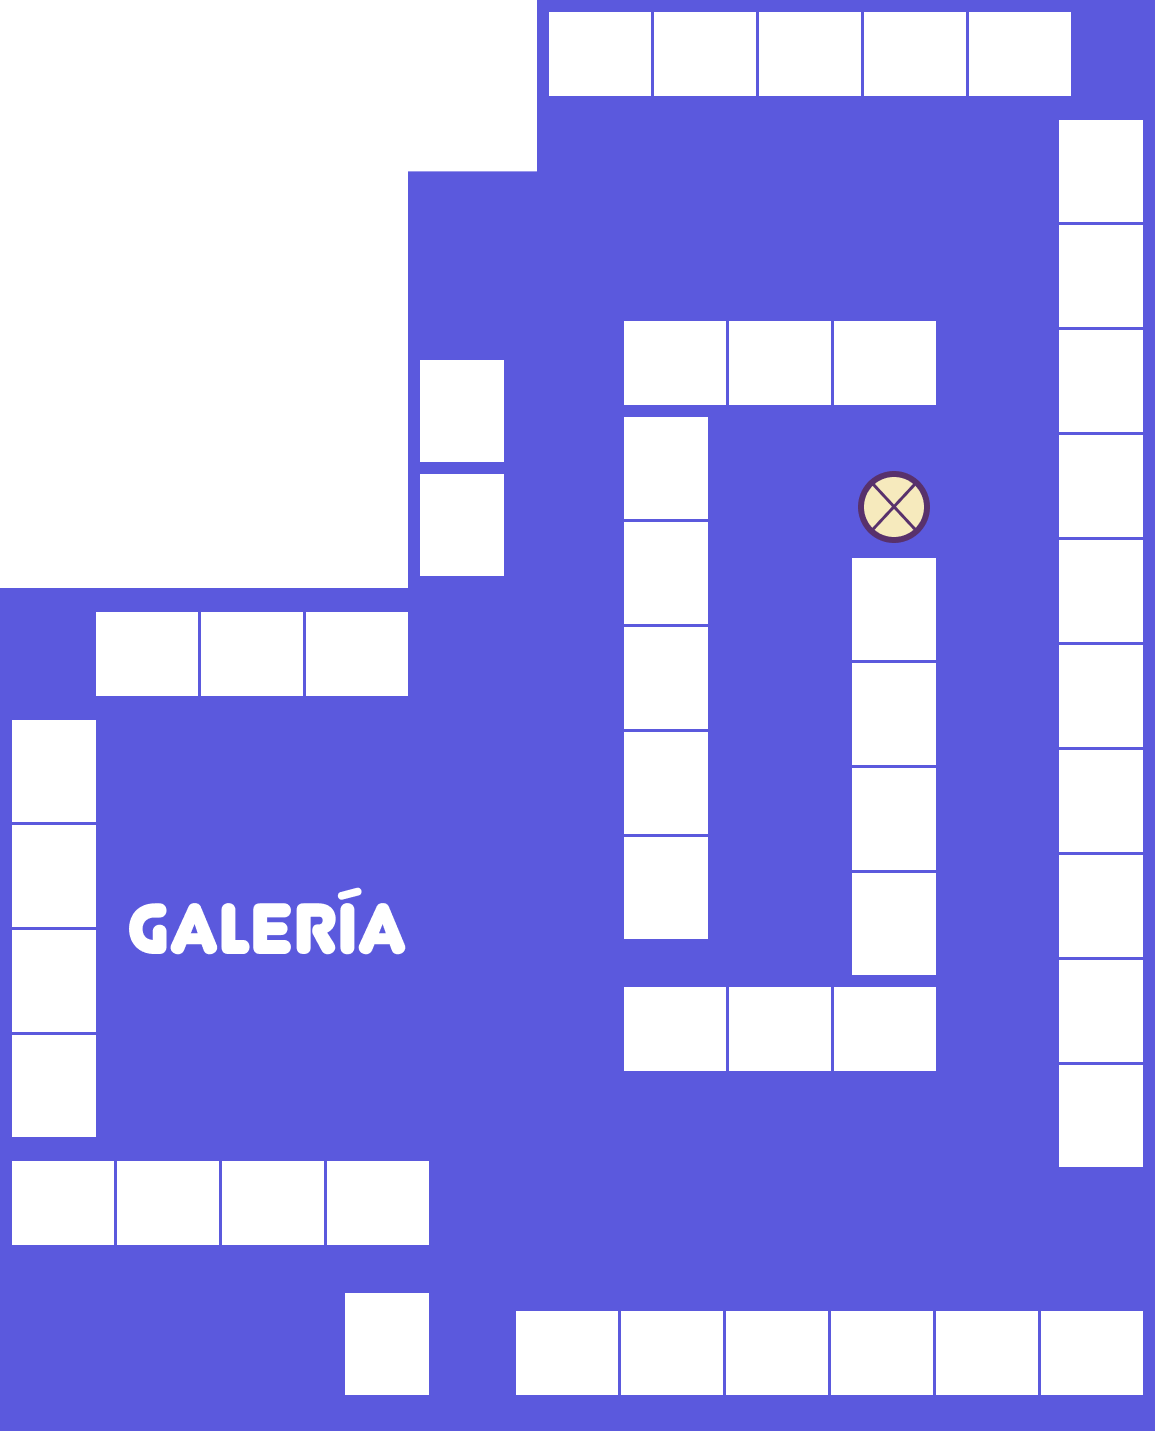
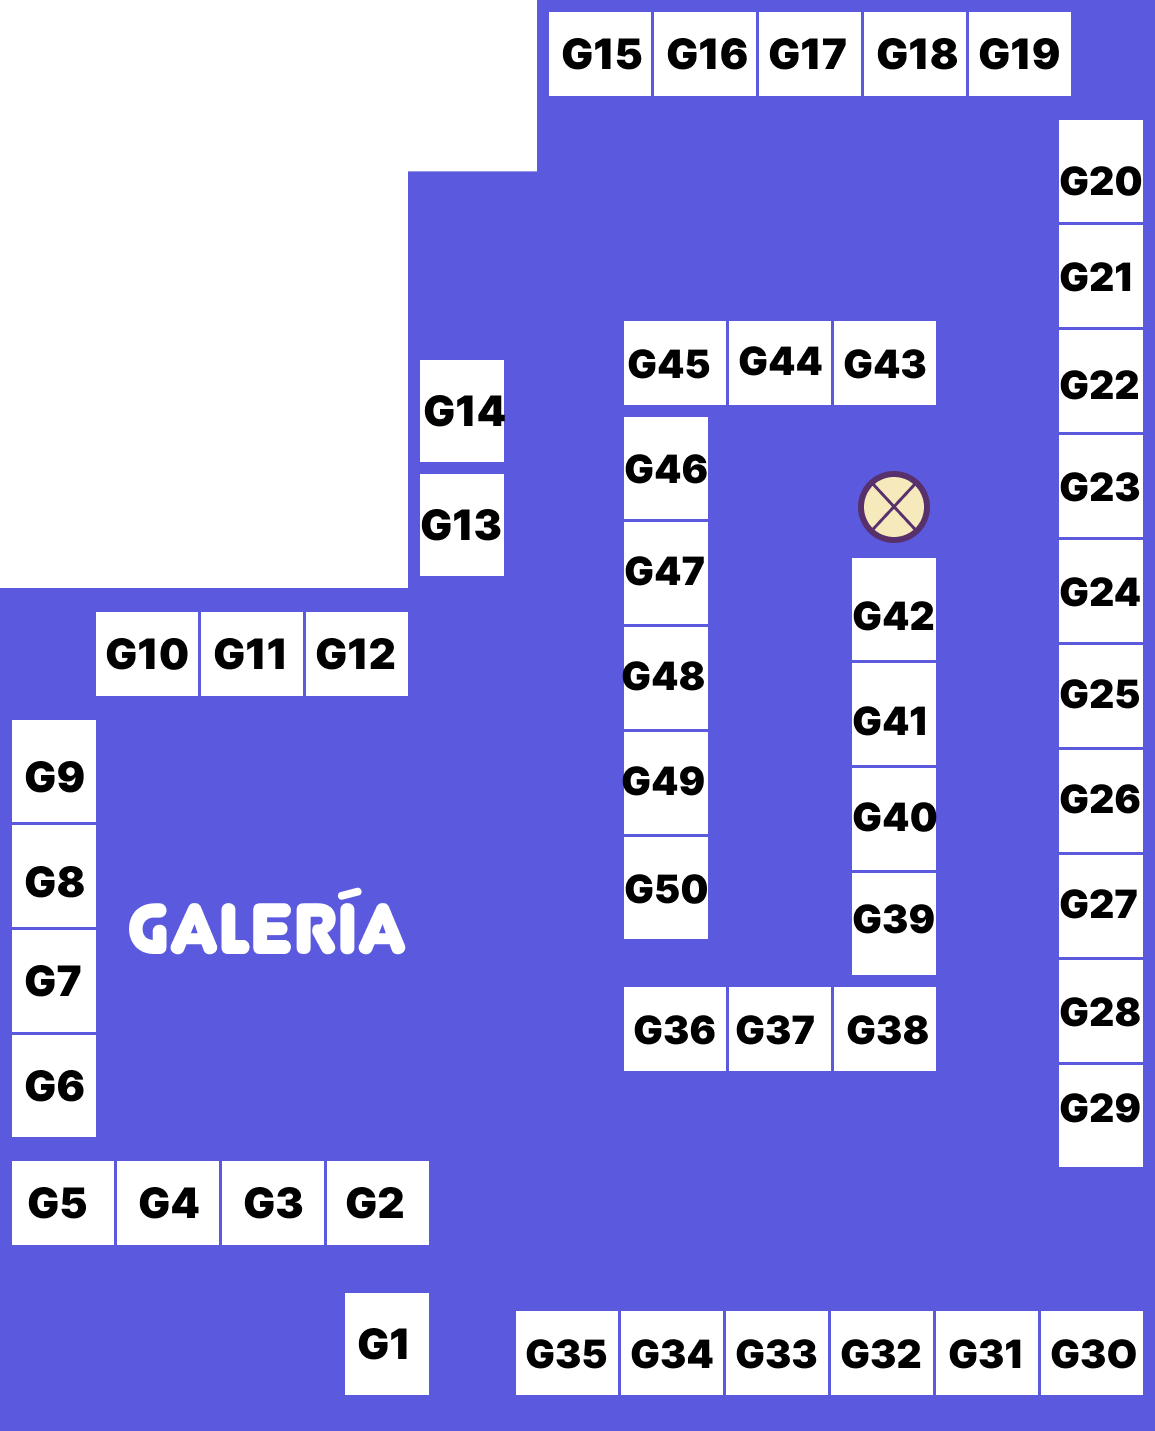
Fix stands based on db data

diff --git a/src/pages/NextFestival.tsx b/src/pages/NextFestival.tsx
@@ -1,17 +1,31 @@
-import { useState } from 'react';
+import { useEffect, useState } from 'react';
 import festivalMap from '../assets/cba_gallery.png';
 import Stand from '../components/Stand';
 import { cbaGalleryPositionsV1 } from '../components/utils/standPositions';
-import { StandPosition } from '../types/eventMapTypes';
-import { demoStands } from '../utils/demoStands';
+import { StandModel, StandPosition } from '../types/eventMapTypes';
+import { get } from '../api/helpers';
 
 const NextFestivalPage = () => {
   const [mapLoaded, setMapLoaded] = useState(false);
-  const stands = demoStands;
+  const [galleryStands, setGalleryStands] = useState<StandModel[]>([]);
+
+  useEffect(() => {
+    const fetchStands = async () => {
+      const stands = await get('stands');
+      if (stands?.length) {
+        const filteredStands = stands.filter(
+          (stand: StandModel) => stand.label === 'G',
+        );
+        setGalleryStands(filteredStands);
+      }
+    };
+
+    fetchStands();
+  }, []);
 
   return (
     <>
-      <div className="m-auto max-w-screen-md">
+      <div className="m-auto max-w-md">
         <div className="relative">
           <section className="flex justify-center w-100 m-auto">
             <img
@@ -21,20 +35,21 @@ const NextFestivalPage = () => {
               onLoad={() => setMapLoaded(true)}
             />
           </section>
-          {mapLoaded && stands.map((stand) => {
-            const position = cbaGalleryPositionsV1.find(
-              (position: StandPosition) => position.id === stand.standNumber,
-            );
+          {mapLoaded &&
+            galleryStands.map((stand) => {
+              const position = cbaGalleryPositionsV1.find(
+                (position: StandPosition) => position.id === stand.standNumber,
+              );
 
-            return (
-              <Stand
-                key={stand.standNumber}
-                {...stand}
-                left={position?.left}
-                top={position?.top}
-              />
-            );
-          })}
+              return (
+                <Stand
+                  key={stand.standNumber}
+                  {...stand}
+                  left={position?.left}
+                  top={position?.top}
+                />
+              );
+            })}
         </div>
       </div>
     </>

diff --git a/src/components/Stand.tsx b/src/components/Stand.tsx
@@ -1,15 +1,15 @@
 import { useState, useEffect } from 'react';
 import { CSSProperties } from 'react';
-import { ElementSize, Stand } from '../types/eventMapTypes';
+import { ElementSize, StandModel } from '../types/eventMapTypes';
 
-type Props = Stand;
+type Props = StandModel;
 
 const Stand = ({
-  isHorizontal,
-  isAvailable,
   left,
+  orientation,
   top,
   standNumber,
+  status,
 }: Props) => {
   const [size, setSize] = useState<ElementSize>({
     width: 0,
@@ -53,14 +53,20 @@ const Stand = ({
     width: `${size?.width}px`,
   };
 
-  const bgColor = isAvailable
-    ? 'hover:bg-amber-300 hover:bg-opacity-60'
-    : 'bg-emerald-200 hover:bg-emerald-400 hover:bg-opacity-60';
-  const shape = isHorizontal ? '' : 'rotate-[270deg]';
+  let bgColor = 'hover:bg-opacity-60 ';
+  if (status === 'RESERVED') {
+    bgColor += 'bg-emerald-200 hover:bg-emerald-400'
+  } else if (status === 'SOLD') {
+    bgColor += 'bg-fuchsia-600 hover:bg-fuchsia-800'
+  } else {
+    bgColor += 'hover:bg-accent hover:bg-opacity-60'
+  }
+
+  const shape = orientation === 'HORIZONTAL' ? '' : 'rotate-[270deg]';
 
   return (
     <div
-      className={`${bgColor} ${shape} bg-opacity-60`}
+      className={`${bgColor} ${shape} bg-opacity-50`}
       key={standNumber}
       style={style}
       onClick={() => handleSeatClick(standNumber)}

diff --git a/src/types/eventMapTypes.ts b/src/types/eventMapTypes.ts
@@ -1,9 +1,13 @@
-export type Stand = {
-  isAvailable: boolean;
-  isHorizontal: boolean;
+export type StandOrientation = 'HORIZONTAL' | 'VERTICAL';
+type StandStatus = 'AVAILABLE' | 'RESERVED' | 'SOLD';
+
+export type StandModel = {
+  label?: string;
   left?: number;
-  top?: number;
+  orientation: StandOrientation;
   standNumber: number;
+  status: StandStatus
+  top?: number;
 };
 
 export type ElementSize = {
